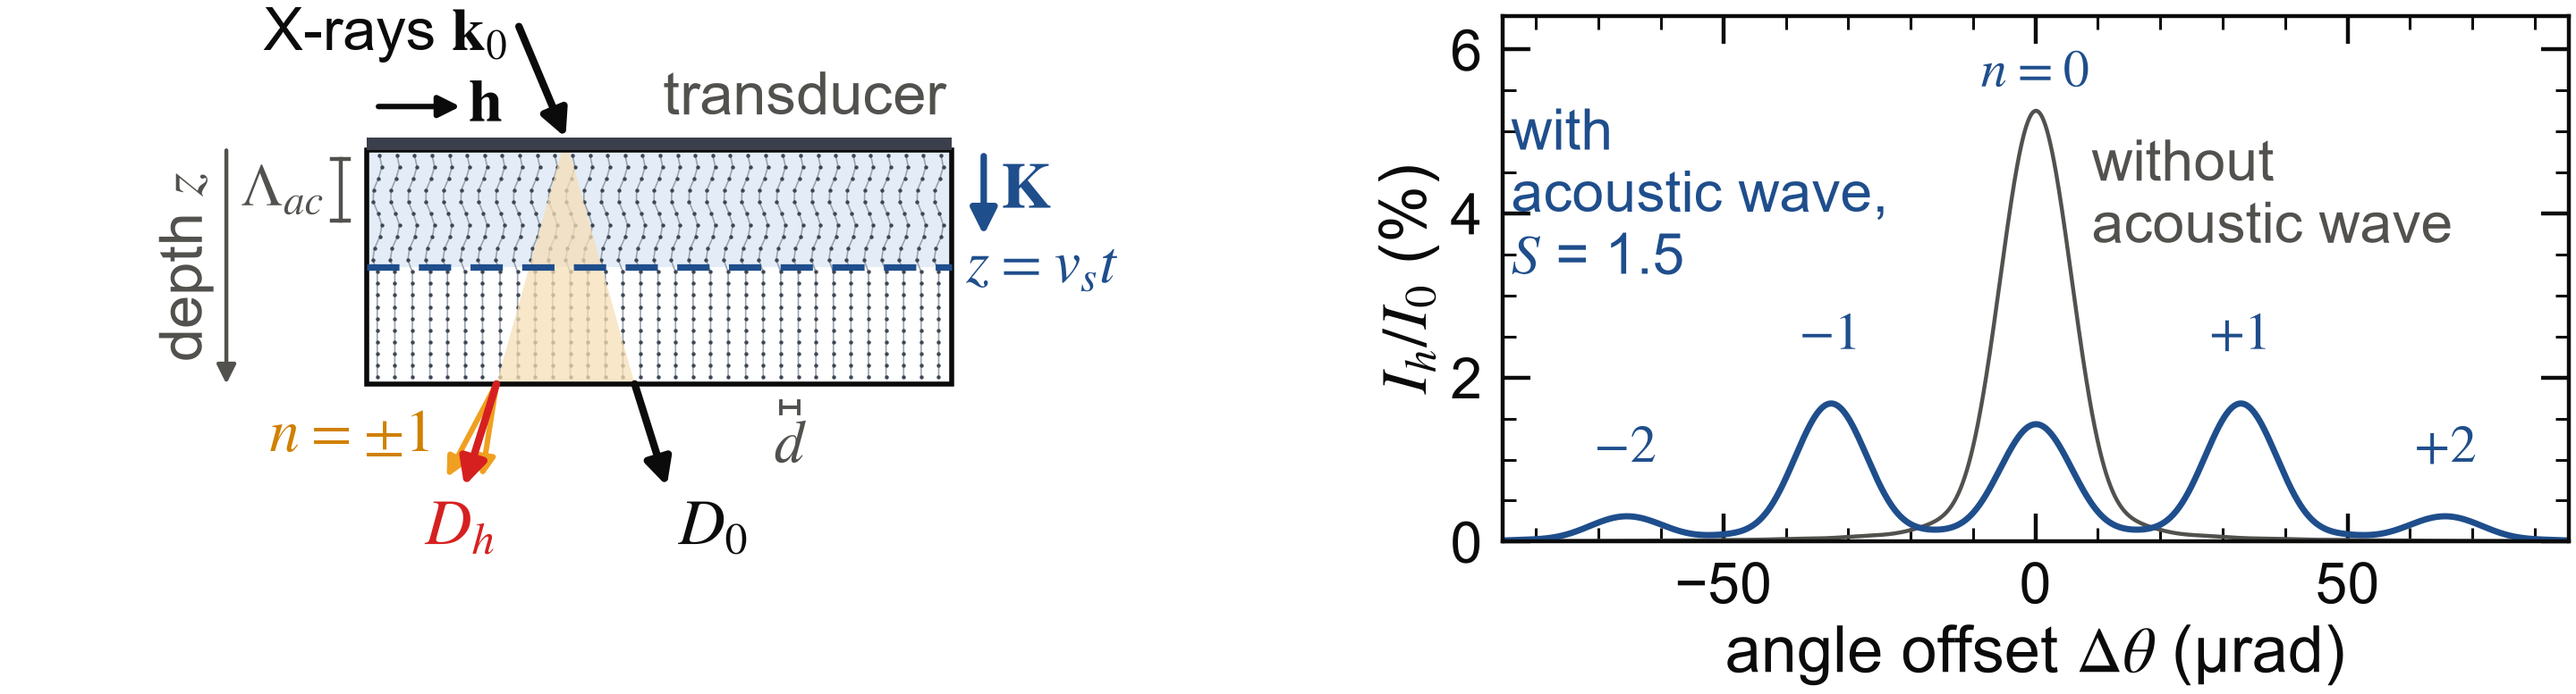
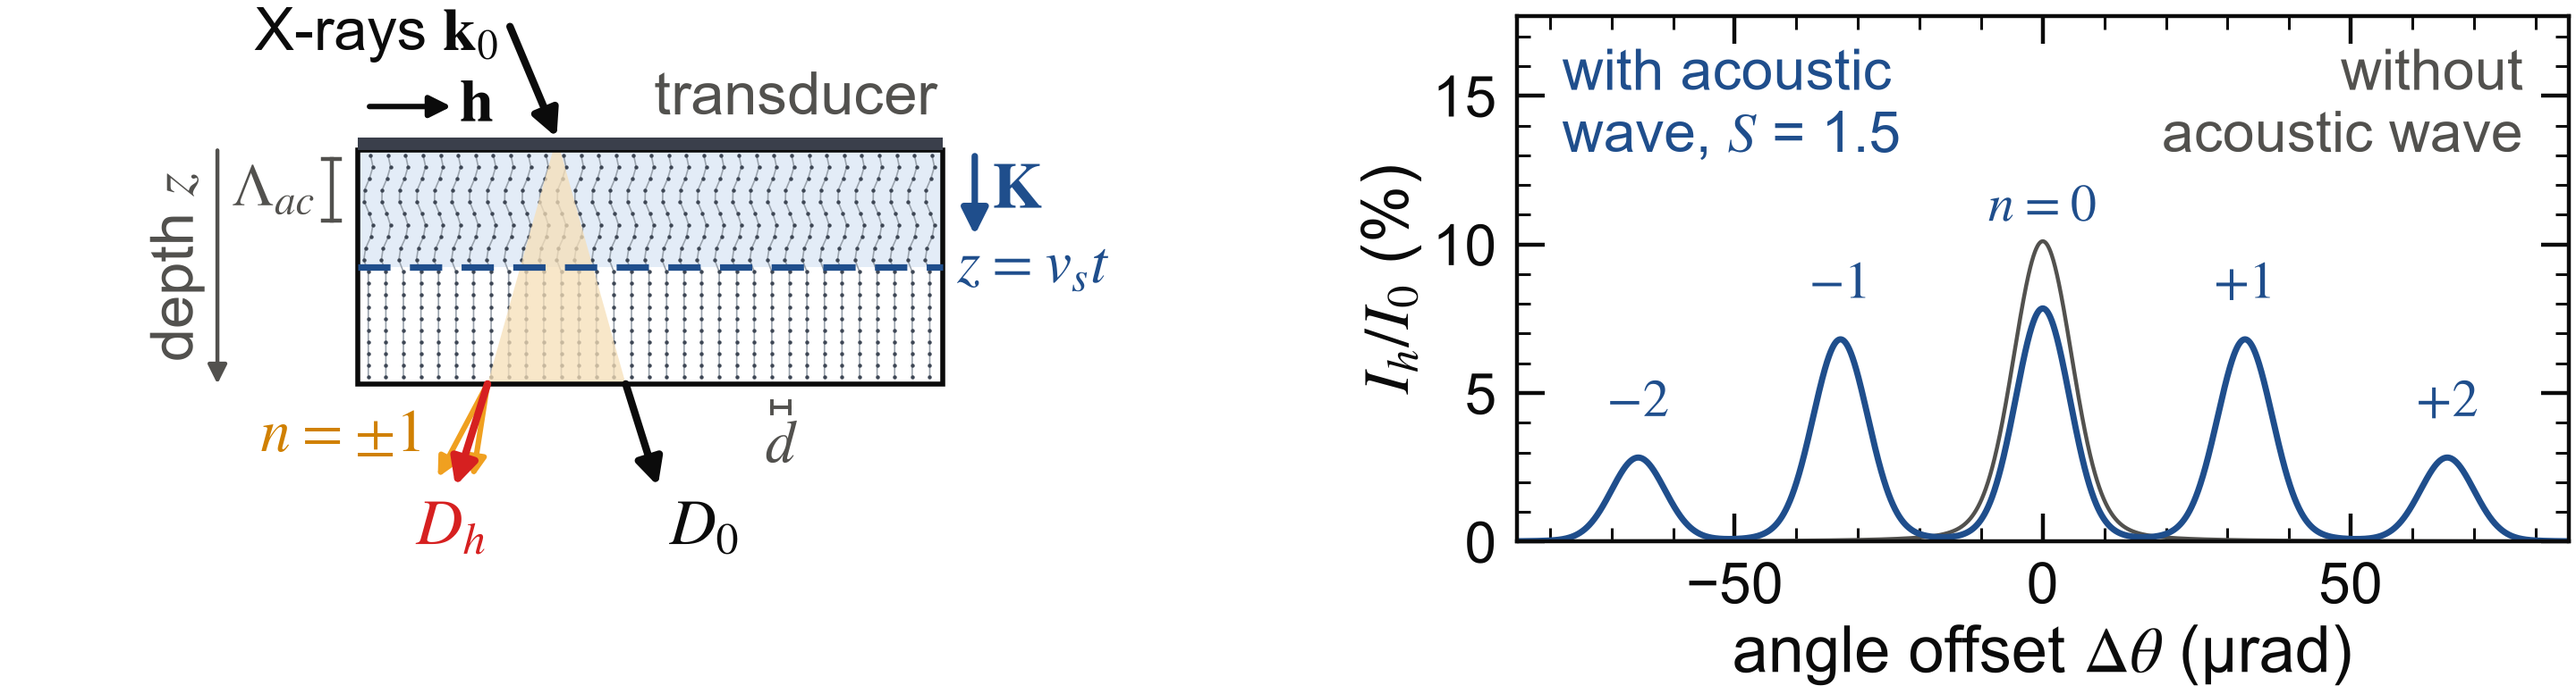
docs(poster): i-QMS rocking curve at L = 296 um and a 4:3 depth-time map (#44)
Part of: IQMS-POSTER

Follow-up to #43 for the i-QMS 2026 poster (poster/iqms.md).

## Changes
- Rocking curve (now section 1):
  - recomputed for the crystal used everywhere else (Si 440, L = 296 um, S = 1.5) instead of a separate 8.8 um slab;
  - the satellites stay 32.8 urad apart;
  - both labels moved into the clear band at the top, away from the y axis;
  - caption: "Si 440, L = 296 um, beam divergence 10 urad (FWHM)".
- Outlook (now section 6): states the two divergences and what each is for. 10 urad separates the satellites; following the centre of one sideband in time needs below 0.05 urad.
- Depth-time map (now section 5):
  - full field, without the grey mask;
  - near 4:3, with the lead sentence and caption beside it;
  - magma colormap; dashed wavefront and dotted t_tr in white with a dark outline;
  - figure sized to its column, so the labels print at about 24 pt;
  - the bottom edge z = L now reproduces the section 4 curve (0.734 at t_tr), and the caption says so.
- Authors: Kyuseok Yun added as third author (affiliation 1); the author line still fits one line in the header. The KPS poster (poster.md) and its README entry record the printed October poster and keep their author list.
- Overview flow strip removed (owner Q1229); sections renumber from 01 and the in-text section references follow.
  The freed height goes to the depth-time map (0.62 column, 8.85 in wide) and the observation figure
[…]

diff --git a/explore/make_poster_figs.py b/explore/make_poster_figs.py
@@ -1250,12 +1250,12 @@ def f12():
     from scipy.special import jv
 
     style()
-    fig, (ax, axv) = plt.subplots(1, 2, figsize=(FIG_W, 4.4), constrained_layout=True)
+    fig, (ax, axv) = plt.subplots(1, 2, figsize=(F12_W, 5.6), constrained_layout=True)
     u = np.linspace(0, 65, 600)  # pm
     S = SI_H440 * u * 1e-12
     # labels beside their curves, inside the frame: n = 0 above its falling edge, n = 3 at the right
     for n, x, y, ha in (
-        (0, 15, 0.95, "left"),
+        (0, 9, 0.97, "left"),
         (1, 26, 0.37, "center"),
         (2, 47, 0.27, "center"),
         (3, 64, 0.25, "right"),
@@ -1264,11 +1264,11 @@ def f12():
         ax.text(x, y, f"$n={n}$", color=ORDER[n], fontsize=SMALL, ha=ha)
     u15 = 1.5 / SI_H440 * 1e12
     ax.axvline(u15, color=INK2, ls=":", lw=2.0)
-    ax.text(u15 + 1, 1.02, "$S$ = 1.5", fontsize=SMALL - 2, color=INK2, va="top")
+    ax.text(u15 + 1, 0.66, "$S$ = 1.5", fontsize=SMALL - 2, color=INK2, va="top")
     ax.set(
         xlim=(0, 65),
         ylim=(0, 1.08),
-        xlabel="displacement amplitude $u_0$ (pm), Si 440",
+        xlabel="displacement $u_0$ (pm)",
         ylabel="kinematic weight $J_n(S)^2$",
     )
     top = ax.secondary_xaxis(
@@ -1282,7 +1282,7 @@ def f12():
         axv.plot(v, jv(m, VADILONGA_ARG * v) ** 2, color=ORDER[m], lw=1.8)
         axv.plot(x, y, "osd^v"[m], color=ORDER[m], mec=INK, ls="none")
     for m, xy in (
-        (0, (8, 0.85)),
+        (0, (14, 0.88)),
         (1, (22, 0.37)),
         (2, (41, 0.26)),
         (3, (44, 0.185)),
@@ -1294,7 +1294,7 @@ def f12():
     axv.set(
         xlim=(0, 45),
         ylim=(0, 1.08),
-        xlabel="drive amplitude on the transducer (V)",
+        xlabel="transducer drive (V)",
         ylabel="satellite intensity",
     )
     finish(fig, (ax, axv), "f12_bessel")
@@ -1305,17 +1305,18 @@ F13_DIV = 10.0  # urad FWHM, beam divergence of the f13 rocking curve
 
 def f13():
     """i-QMS introduction. Left: the Laue onset schematic (onset_sketch). Right: rocking curve of the
-    crystal filled with sound, Si 440 at 30 keV, S = 1.5, 2 GHz shear wave (Lambda_ac = 2.96 um),
-    L = 3 Lambda_ac = 8.9 um (L << Lambda, so the peaks carry the kinematic weights), averaged over
-    eight acoustic phases and convolved with a beam divergence of F13_DIV (FWHM); the angle offset is
-    eta / (h L), satellite n at n d / Lambda_ac. Grey: the same crystal without the wave."""
+    crystal filled with sound, the crystal of the other sections: Si 440 at 30 keV, L = 296 um, S = 1.5,
+    2 GHz shear wave (Lambda_ac = 2.92 um), averaged over eight acoustic phases and convolved with a
+    beam divergence of F13_DIV (FWHM), which separates the satellites but not their line shapes; the
+    angle offset is eta / (h L), satellite n at n d / Lambda_ac. Grey: the same crystal without the
+    wave."""
     style()
-    a_ac = 3.0
     lam_ac = V_SHEAR / 2e9
-    L = a_ac * lam_ac
+    L = 296e-6
+    a_ac = L / lam_ac
     alpha = L / LAMBDA_LAUE
     d = Drive(S=1.5, alpha_ac=a_ac)
-    eta = np.linspace(-2.6 * d.q, 2.6 * d.q, 2001)
+    eta = np.arange(-2.6 * d.q, 2.6 * d.q, 1.0)  # a step of 1 resolves the Pendelloesung fringes
     shift = (2.0 + np.arange(8) / 8 * d.period)[:, None]
     n_z = required_nz(alpha, a_ac, S=1.5, eta_max=eta.max())
     I = rocking(alpha, eta, phi=d.phi(shift), n_z=n_z).mean(axis=0)
@@ -1329,7 +1330,7 @@ def f13():
         gridspec_kw=dict(width_ratios=[1.25, 1.0], wspace=0.03),
     )
     onset_sketch(ax)
-    # a Gaussian beam divergence of F13_DIV (FWHM) smooths the thin-crystal side lobes into one peak each
+    # a Gaussian beam divergence of F13_DIV (FWHM): one smooth peak per satellite
     sig = F13_DIV / (2 * np.sqrt(2 * np.log(2)))
     x = np.arange(-4 * sig, 4 * sig, dth[1] - dth[0])
     g = np.exp(-0.5 * (x / sig) ** 2)
@@ -1340,12 +1341,18 @@ def f13():
     axr.plot(dth, I0 * scale, color=INK2, lw=1.6)
     axr.plot(dth, I * scale, color=BLUE)
     axr.text(
-        9, 0.8 * top, "without\nacoustic wave", color=INK2, fontsize=SMALL, ha="left", va="center"
+        78,
+        1.45 * top,
+        "without\nacoustic wave",
+        color=INK2,
+        fontsize=SMALL,
+        ha="right",
+        va="center",
     )
     axr.text(
-        -84,
-        0.8 * top,
-        "with\nacoustic wave,\n$S$ = 1.5",
+        -78,
+        1.45 * top,
+        "with acoustic\nwave, $S$ = 1.5",
         color=BLUE,
         fontsize=SMALL,
         ha="left",
@@ -1366,7 +1373,7 @@ def f13():
         )
     axr.set(
         xlim=(dth[0], dth[-1]),
-        ylim=(0, 1.22 * top),
+        ylim=(0, 1.75 * top),
         xlabel=r"angle offset $\Delta\theta$ (μrad)",
         ylabel="$I_h/I_0$ (%)",
     )
@@ -1379,6 +1386,8 @@ def f13():
 
 
 F16_ALPHA, F16_AAC, F16_S, F16_PHASES = 296e-6 / LAMBDA_LAUE, 100.0, 1.5, 8  # L = 296 um, 2 GHz
+F16_W = 8.85  # inches: the 0.62 column of a paired poster card, so the map prints near 4:3
+F12_W = 12.27  # inches: the 0.4 column of a full-width poster card
 
 
 def f16_profiles():
@@ -1436,25 +1445,24 @@ def f16_profiles():
 def f16():
     """i-QMS section 5: the first sideband inside the crystal while the wave enters. Laue, Si 440 at
     30 keV, S = 1.5, L = 296 um, step onset; x = time after onset (ns), y = depth (um, down, as in the
-    section 1 schematic), colour = |D_h|^2 at the first-sideband angle where the wave has arrived;
-    the layer below the wavefront z = v_s t is plain grey; t_tr marked."""
+    section 1 schematic), colour = |D_h|^2 at the first-sideband angle over the whole slab; dashed
+    wavefront z = v_s t and t_tr marked. Near 4:3, sized to its column so the labels print at 24 pt."""
+    from matplotlib import patheffects
+
     style()
     zeta, t, I = f16_profiles()
     L_um = F16_ALPHA * LAMBDA_LAUE * 1e6
     t_tr = F16_ALPHA * LAMBDA_LAUE / V_SHEAR * 1e9
     lab = 24
-    fig, ax = plt.subplots(figsize=(FIG_W, 3.6), constrained_layout=True)
+    halo = [patheffects.withStroke(linewidth=4.5, foreground=INK)]
+    fig, ax = plt.subplots(figsize=(F16_W, 0.75 * F16_W), constrained_layout=True)
     tn, zn = t * t_tr, zeta * L_um
-    im = ax.pcolormesh(
-        tn, zn, I, shading="gouraud", cmap="cividis", vmin=0, vmax=1, rasterized=True
-    )
-    ax.contour(tn, zn, I, levels=[0.25, 0.5, 0.75], colors="white", linewidths=0.8, alpha=0.45)
-    cb = fig.colorbar(im, ax=ax, pad=0.02, fraction=0.05, ticks=[0, 0.5, 1])
+    im = ax.pcolormesh(tn, zn, I, shading="gouraud", cmap="magma", vmin=0, vmax=1, rasterized=True)
+    cb = fig.colorbar(im, ax=ax, pad=0.02, fraction=0.06, ticks=[0, 0.5, 1])
     cb.set_label("$|D_h|^2/I_0$")
     cb.ax.tick_params(direction="in", which="both")
-    ax.add_patch(plt.Polygon([(0, 0), (t_tr, L_um), (0, L_um)], fc="#e6e6e6", ec="none", zorder=3))
-    ax.plot([0, t_tr], [0, L_um], color=INK, ls="--", lw=2.2, zorder=4)
-    ax.axvline(t_tr, color="white", ls=":", lw=1.8, zorder=4)
+    ax.plot([0, t_tr], [0, L_um], color="white", ls="--", lw=2.4, zorder=4, path_effects=halo)
+    ax.axvline(t_tr, color="white", ls=":", lw=2.2, zorder=4, path_effects=halo)
     ax.text(
         t_tr,
         1.02,
@@ -1464,25 +1472,16 @@ def f16():
         ha="center",
         va="bottom",
     )
-    y = 0.42 * L_um
     ax.text(
-        t_tr * (y - 22) / L_um - 1.2,
-        y,
-        "wavefront $z=v_st$",
+        0.62 * t_tr - 4.5,
+        0.62 * L_um,
+        "wavefront\n$z=v_st$",
         fontsize=lab,
+        color="white",
         ha="right",
         va="center",
         zorder=5,
-    )
-    ax.text(
-        1.5,
-        0.85 * L_um,
-        "not yet reached",
-        fontsize=lab,
-        ha="left",
-        va="center",
-        color=INK2,
-        zorder=5,
+        path_effects=halo,
     )
     ax.set(
         xlim=(0, t[-1] * t_tr),

diff --git a/poster/iqms.md b/poster/iqms.md
@@ -1,6 +1,6 @@
 ---
 title: Transit-Time Limit on Sideband Formation // in Acoustically Driven Bragg Diffraction
-authors: **Isaac Yong**¹, Ouyoung Kwon¹, Hyunjung Kim¹
+authors: **Isaac Yong**¹, Ouyoung Kwon¹, Kyuseok Yun¹, Hyunjung Kim¹
 affiliation: ¹Center for Ultrafast Phase Transformation, Department of Physics, Sogang University, Seoul, Korea
 session: Poster 10-1533 · Jeju, December 3, 2026
 look: lab
@@ -32,19 +32,11 @@ no-break space (U+00A0).
 
 When a GHz shear wave is switched on in silicon, the X-ray **sidebands do not appear at once**: each grows only behind the **acoustic wavefront**. Time-dependent Takagi–Taupin equations (Laue geometry) show that the first sideband of a 296 μm crystal is **complete at the transit time** (50.6 ns), **not after one acoustic period** (0.5 ns). {E1}{E9}{E20}{E28}
 
-## Overview: from switch-on to steady sidebands
-
-=> Switch-on :: Sound switched on
-=> Onset :: Wavefront at $z=v_st$
-=> Onset :: Sidebands grow behind it
-=> Filled :: Crystal filled at $t_{tr}=L/v_s$
-=> Filled :: Steady sidebands {E1}{E9}
-
 ## Introduction: why the build-up time matters
 
 [[ 0.5 c
 
-![A sound wave displaces the lattice planes; the rocking curve gains satellite peaks (sidebands) at angle offsets proportional to $n$. Si 440, $L$ = 8.8 μm, 10 μrad (FWHM) beam divergence.](figures/poster/iqms/f13_rocking.png){E0}{E7}
+![A sound wave displaces the lattice planes; the rocking curve gains satellite peaks (sidebands) at angle offsets proportional to $n$. Si 440, $L$ = 296 μm, beam divergence 10 μrad (FWHM).](figures/poster/iqms/f13_rocking.png){E0}{E7}
 
 || 0.5 c
 
@@ -86,7 +78,7 @@ The wave displaces the atoms by $u=u_0\sin(Kz-\Omega t)$ (acoustic wavelength $\
 
 In a thick, nearly perfect crystal X-rays are scattered many times; single scattering is no longer enough. {E0}{E20}
 
-In Laue (transmission) geometry the X-rays cross the slab from the top face to the bottom face (section 2). The Takagi–Taupin (TT) equations (Takagi 1962, 1969; Taupin 1964) couple the transmitted wave $D_0$ and the diffracted wave $D_h$ along the depth $z$; the displacement $\mathbf{u}(z,t)$ enters as the phase $\mathbf{h}\cdot\mathbf{u}$ ($\Lambda$: Pendellösung length, 98.8 μm; $\beta$: deviation from the Bragg angle). {E0}{E20}{E62}
+In Laue (transmission) geometry the X-rays cross the slab from the top face to the bottom face (section 1). The Takagi–Taupin (TT) equations (Takagi 1962, 1969; Taupin 1964) couple the transmitted wave $D_0$ and the diffracted wave $D_h$ along the depth $z$; the displacement $\mathbf{u}(z,t)$ enters as the phase $\mathbf{h}\cdot\mathbf{u}$ ($\Lambda$: Pendellösung length, 98.8 μm; $\beta$: deviation from the Bragg angle). {E0}{E20}{E62}
 
 $$ $dD_0/dz=(i\pi/\Lambda)\,e^{i\mathbf{h}\cdot\mathbf{u}}D_h$,  $dD_h/dz=(i\pi/\Lambda)\,e^{-i\mathbf{h}\cdot\mathbf{u}}D_0+i\beta D_h$ {E0}
 
@@ -102,7 +94,7 @@ $$ $dD_0/dz=(i\pi/\Lambda)\,e^{i\mathbf{h}\cdot\mathbf{u}}D_h$,  $dD_h/dz=(i\pi/
 
 After switch-on, only the layer behind the wavefront is strained; each sideband grows with that layer. {E1}{E9}
 
-![First sideband after a step onset, Laue, Si, $L$ = 296 μm, $S$ = 1.5 ($u_0$ = 23 pm); schematic in section 2.](figures/poster/iqms/f11_formation.png){E0}{E1}{E9}{E20}{E85}
+![First sideband after a step onset, Laue, Si, $L$ = 296 μm, $S$ = 1.5 ($u_0$ = 23 pm); schematic in section 1.](figures/poster/iqms/f11_formation.png){E0}{E1}{E9}{E20}{E85}
 
 Satellite $n$ is a two-beam problem with extinction length $\Lambda/\left|J_n(S)\right|$: a filled crystal gives $I_n=\sin^2(\pi L\left|J_n\right|/\Lambda)$; during onset the strained layer has thickness $v_st$ ($v_s$: sound velocity), so $L\to v_st$: {E1}{E9}{E44}{E54}
 
@@ -114,14 +106,22 @@ In the formation time $\tau_n$ the front crosses one sideband extinction length;
 
 ## Build-up inside the crystal: depth–time map
 
-Behind the wavefront the sideband builds up; the crystal is complete when the front reaches $z=L$ at $t_{tr}$. {E1}{E9}
+[[ 0.62 c
 
-![Laue, Si 440, $S$ = 1.5, $L$ = 296 μm, step onset: $|D_h(z)|^2$ at the first-sideband angle (TT, phase-averaged). Along the wavefront, and along $z=L$ after $t_{tr}$, the colour follows the curve of section 5.](figures/poster/iqms/f16_depth_time.png){E1}{E9}{E20}
+![](figures/poster/iqms/f16_depth_time.png){E1}{E9}{E20}
+
+|| 0.38 c
+
+Behind the wavefront $z=v_st$ the sideband builds up; the crystal is complete when the front reaches $z=L$ at $t_{tr}$. {E1}{E9}
+
+![Laue, Si 440, $S$ = 1.5, $L$ = 296 μm, step onset: $|D_h(z)|^2$ at the first-sideband angle (TT, phase-averaged). The bottom edge $z=L$ is the section 4 curve.](none){E1}{E9}{E20}
+
+]]
 
 ## Conclusions and outlook
 
 > **Sideband formation is complete within the acoustic transit time** $L/v_s$ (tens of ns in Si); the formation time $\tau_n$, not the acoustic period, sets the switching speed. The Bessel law holds for $L\ll\Lambda$. {E1}{E9}{E67}
 
-- **Outlook:** $S$ = 1.5 is $u_0$ = 23 pm (strain $5\times10^{-5}$ at 2 GHz). Next: an experiment; resolving the sideband centre needs a beam divergence below 0.05 μrad, a fraction of the Darwin half-width. {E20}{E73}{E84}{E92}
+- **Outlook:** $S$ = 1.5 is $u_0$ = 23 pm (strain $5\times10^{-5}$ at 2 GHz). Next: an experiment. Separating the satellites needs only a 10 μrad beam (section 1); following the centre of one sideband in time needs a divergence below 0.05 μrad, a fraction of the Darwin half-width. {E20}{E73}{E84}{E92}
 
 ![Method: TT equations, RK4, checked against an exact periodic-drive (Floquet) solver; two-beam forms within 6 % of full TT for $\Lambda_{ac}<0.3\,\Lambda$.](none){E0}{E19}{E20}{E31}{E42}{E54}{E62}
